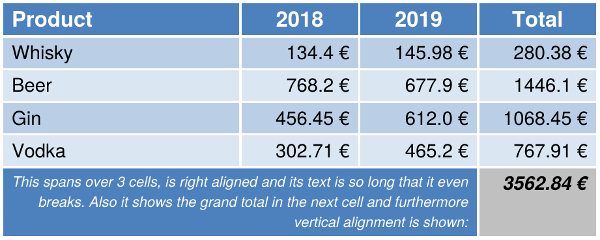
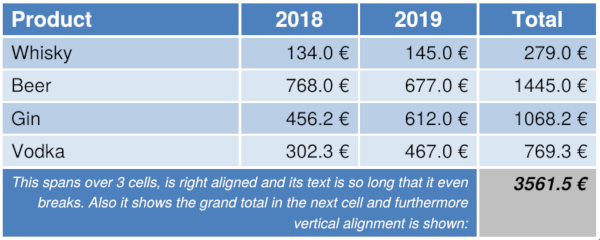
Adapted documentation for 0.5.0 release

diff --git a/src/test/java/org/vandeseer/integrationtest/custom/CustomCellWithCustomDrawerUsingLombok.java b/src/test/java/org/vandeseer/integrationtest/custom/CustomCellWithCustomDrawerUsingLombok.java
@@ -1,11 +1,13 @@
 package org.vandeseer.integrationtest.custom;
 
+import lombok.experimental.SuperBuilder;
 import org.apache.pdfbox.pdmodel.PDDocument;
 import org.apache.pdfbox.pdmodel.PDPage;
 import org.apache.pdfbox.pdmodel.PDPageContentStream;
 import org.apache.pdfbox.pdmodel.common.PDRectangle;
 import org.apache.pdfbox.pdmodel.font.PDFont;
 import org.vandeseer.easytable.TableDrawer;
+import org.vandeseer.easytable.drawing.Drawer;
 import org.vandeseer.easytable.drawing.cell.TextCellDrawer;
 import org.vandeseer.easytable.structure.Row;
 import org.vandeseer.easytable.structure.Table;
@@ -16,16 +18,24 @@ import java.io.IOException;
 
 import static org.apache.pdfbox.pdmodel.font.PDType1Font.HELVETICA;
 
-public class EasytableNoLombokCustomCellDrawer {
+public class CustomCellWithCustomDrawerUsingLombok {
 
-    private static final TextCellDrawer CUSTOM_DRAWER = new TextCellDrawer() {
+    @SuperBuilder
+    private static class MyCustomCell extends TextCell {
+
         @Override
-        protected void drawText(String text, PDFont font, int fontSize, Color color, float x, float y, PDPageContentStream contentStream)
+        public Drawer getDrawer() {
+            return new TextCellDrawer(this) {
+                @Override
+                protected void drawText(String text, PDFont font, int fontSize, Color color, float x, float y, PDPageContentStream contentStream)
                         throws IOException {
-            System.out.println("My custom drawer is called :-)");
-            super.drawText(text.toUpperCase(), font, fontSize, color, x, y, contentStream);
+                    System.out.println("My custom drawer is called :-)");
+                    super.drawText(text.toUpperCase(), font, fontSize, color, x, y, contentStream);
+                }
+            };
         }
-    };
+
+    }
 
     public static void main(String[] args) throws IOException {
         final PDDocument document = new PDDocument();
@@ -44,7 +54,7 @@ public class EasytableNoLombokCustomCellDrawer {
 
         }
 
-        document.save("target/customCellDrawerNoLombok.pdf");
+        document.save("target/customCellDrawer.pdf");
         document.close();
     }
 
@@ -55,10 +65,10 @@ public class EasytableNoLombokCustomCellDrawer {
                 .font(HELVETICA);
 
         tableBuilder.addRow(Row.builder()
-                .add(TextCell.builder().drawer(CUSTOM_DRAWER).borderWidth(1).text("One").build())
-                .add(TextCell.builder().borderWidth(1).text("Two").build())
-                .add(TextCell.builder().borderWidth(1).text("Three").build())
-                .add(TextCell.builder().borderWidth(1).text("Four").build())
+                .add(MyCustomCell.builder().borderWidth(1).text("One").build())
+                .add(MyCustomCell.builder().borderWidth(1).text("Two").build())
+                .add(MyCustomCell.builder().borderWidth(1).text("Three").build())
+                .add(MyCustomCell.builder().borderWidth(1).text("Four").build())
                 .build());
 
         return tableBuilder.build();

diff --git a/src/test/java/org/vandeseer/integrationtest/custom/CustomCellDrawer.java b/src/test/java/org/vandeseer/integrationtest/custom/CustomCellDrawer.java
@@ -1,13 +1,11 @@
 package org.vandeseer.integrationtest.custom;
 
-import lombok.experimental.SuperBuilder;
 import org.apache.pdfbox.pdmodel.PDDocument;
 import org.apache.pdfbox.pdmodel.PDPage;
 import org.apache.pdfbox.pdmodel.PDPageContentStream;
 import org.apache.pdfbox.pdmodel.common.PDRectangle;
 import org.apache.pdfbox.pdmodel.font.PDFont;
 import org.vandeseer.easytable.TableDrawer;
-import org.vandeseer.easytable.drawing.Drawer;
 import org.vandeseer.easytable.drawing.cell.TextCellDrawer;
 import org.vandeseer.easytable.structure.Row;
 import org.vandeseer.easytable.structure.Table;
@@ -18,24 +16,16 @@ import java.io.IOException;
 
 import static org.apache.pdfbox.pdmodel.font.PDType1Font.HELVETICA;
 
-public class EasytableCustomCellDrawer {
+public class CustomCellDrawer {
 
-    @SuperBuilder
-    private static class MyCustomCell extends TextCell {
-
+    private static final TextCellDrawer CUSTOM_DRAWER = new TextCellDrawer() {
         @Override
-        public Drawer getDrawer() {
-            return new TextCellDrawer(this) {
-                @Override
-                protected void drawText(String text, PDFont font, int fontSize, Color color, float x, float y, PDPageContentStream contentStream)
+        protected void drawText(String text, PDFont font, int fontSize, Color color, float x, float y, PDPageContentStream contentStream)
                         throws IOException {
-                    System.out.println("My custom drawer is called :-)");
-                    super.drawText(text.toUpperCase(), font, fontSize, color, x, y, contentStream);
-                }
-            };
+            System.out.println("My custom drawer is called :-)");
+            super.drawText(text.toUpperCase(), font, fontSize, color, x, y, contentStream);
         }
-
-    }
+    };
 
     public static void main(String[] args) throws IOException {
         final PDDocument document = new PDDocument();
@@ -54,7 +44,7 @@ public class EasytableCustomCellDrawer {
 
         }
 
-        document.save("target/customCellDrawer.pdf");
+        document.save("target/customCellDrawerNoLombok.pdf");
         document.close();
     }
 
@@ -65,10 +55,10 @@ public class EasytableCustomCellDrawer {
                 .font(HELVETICA);
 
         tableBuilder.addRow(Row.builder()
-                .add(MyCustomCell.builder().borderWidth(1).text("One").build())
-                .add(MyCustomCell.builder().borderWidth(1).text("Two").build())
-                .add(MyCustomCell.builder().borderWidth(1).text("Three").build())
-                .add(MyCustomCell.builder().borderWidth(1).text("Four").build())
+                .add(TextCell.builder().drawer(CUSTOM_DRAWER).borderWidth(1).text("One").build())
+                .add(TextCell.builder().borderWidth(1).text("Two").build())
+                .add(TextCell.builder().borderWidth(1).text("Three").build())
+                .add(TextCell.builder().borderWidth(1).text("Four").build())
                 .build());
 
         return tableBuilder.build();

diff --git a/src/test/java/org/vandeseer/integrationtest/ExcelLikeExampleTest.java b/src/test/java/org/vandeseer/integrationtest/ExcelLikeExampleTest.java
@@ -26,7 +26,6 @@ public class ExcelLikeExampleTest {
     private final static Color BLUE_LIGHT_1 = new Color(186, 206, 230);
     private final static Color BLUE_LIGHT_2 = new Color(218, 230, 242);
 
-    private final static Color ORANGE = new Color(255, 180, 0);
     private final static Color GRAY_LIGHT_1 = new Color(245, 245, 245);
     private final static Color GRAY_LIGHT_2 = new Color(240, 240, 240);
     private final static Color GRAY_LIGHT_3 = new Color(216, 216, 216);
@@ -43,10 +42,10 @@ public class ExcelLikeExampleTest {
         
         // Some data
         final Object[][] data = {
-                {"Whisky", 134.4, 145.98},
-                {"Beer", 768.2, 677.9},
-                {"Gin", 456.45, 612.0},
-                {"Vodka", 302.71, 465.2}
+                {"Whisky", 134.0, 145.0},
+                {"Beer",   768.0, 677.0},
+                {"Gin",    456.2, 612.0},
+                {"Vodka",  302.3, 467.0}
         };
 
         // Define the table structure first
@@ -126,7 +125,7 @@ public class ExcelLikeExampleTest {
                 .add(TextCell.builder().borderWidth(1).padding(6).text("Left").build())
                 .add(TextCell.builder().borderWidth(1).padding(6).text("Middle").colSpan(3).build())
                 .add(TextCell.builder().borderWidth(1).padding(6).text("Right").build())
-                .backgroundColor(ORANGE)
+                .backgroundColor(GRAY)
                 .textColor(WHITE)
                 .font(HELVETICA_BOLD)
                 .fontSize(8)

diff --git a/README.md b/README.md
@@ -17,27 +17,24 @@ crucial features. Nevertheless there is:
 * images in cells
 * experimental: vertical text
 
-Furthermore you can override drawing classes such that you can fully customize their drawing behaviour.
+One can also override classes that are responsible for table/cell drawing, i.e. 
+their drawing behaviour can be customized to a pretty high extent.
 
-## Example
+## Examples
 
-In order to produce a whole PDF document with a table that looks like this one:
+[This code](src/test/java/org/vandeseer/integrationtest/ExcelLikeExampleTest.java) is needed in order to produce a 
+PDF document with the following two tables:
 
 ![easytable table](doc/example.png)
 
-You will need [this code](src/test/java/org/vandeseer/integrationtest/ExcelLikeExampleTest.java).
-In the same file you find the code for this table: 
-
 ![easytable table](doc/example2.png)
 
-There are more examples (just see the folder), for instance this one: 
+For the next example have a look at the [SettingsTest.java](src/test/java/org/vandeseer/integrationtest/SettingsTest.java):
 
 ![easytable table](doc/example3.png)
 
-Again, just have a look at the [code](src/test/java/org/vandeseer/integrationtest/SettingsTest.java).
-
 The last one illustrates the use of vertical text in text cells. The code for 
-it can be found [here](src/test/java/org/vandeseer/integrationtest/VerticalTextCellTest.java). 
+it can be found [here](src/test/java/org/vandeseer/integrationtest/VerticalTextCellTest.java):
 
 ![easytable table](doc/example4.png)
 
@@ -75,13 +72,19 @@ improvements
 ### Can I customize the drawers for my own specific needs?
 
 Yep, you can customize the cell drawers itself or (depending on your use case)
-you can just create a custom cell. To get an idea, have a look at those two classes: 
-- Using [Lombok](https://projectlombok.org/): [EasytableCustomCellDrawer](src/test/java/org/vandeseer/integrationtest/custom/EasytableCustomCellDrawer.java)
-- Not using [Lombok](https://projectlombok.org/): [EasytableNoLombokCustomCellDrawer](src/test/java/org/vandeseer/integrationtest/custom/EasytableNoLombokCustomCellDrawer.java)
+you can just create a custom cell. 
+
+For using a customized cell drawer, have a look at 
+[CustomCellDrawer](src/test/java/org/vandeseer/integrationtest/custom/CustomCellDrawer.java).
+
+In case you want to create your own type of cell (which shouldn't really be necessary since the 
+drawing can be completely adapted) you will need to use [Lombok](https://projectlombok.org/)'s `@SuperBuilder`
+annotation. Again, just have a look at the code: 
+[CustomCellWithCustomDrawerUsingLombok](src/test/java/org/vandeseer/integrationtest/custom/CustomCellWithCustomDrawerUsingLombok.java)
 
 ### Does it work with Java < 8?
 
-Nope. You will need Java 8.
+Nope. You will need at least Java 8.
 
 ### Does it work with PDFBox 1.8.9?
 
@@ -91,7 +94,7 @@ Well, Using it with PDFBox 1.8.9 requires you to check out version
     git checkout v0.0.7
     mvn clean install
 
-Note though that the API will have changed in the meantime ...
+Note though that the API has changed quite a bit in the meantime ...
 
 ### Cool, I like it, can I buy you a beer?
 
